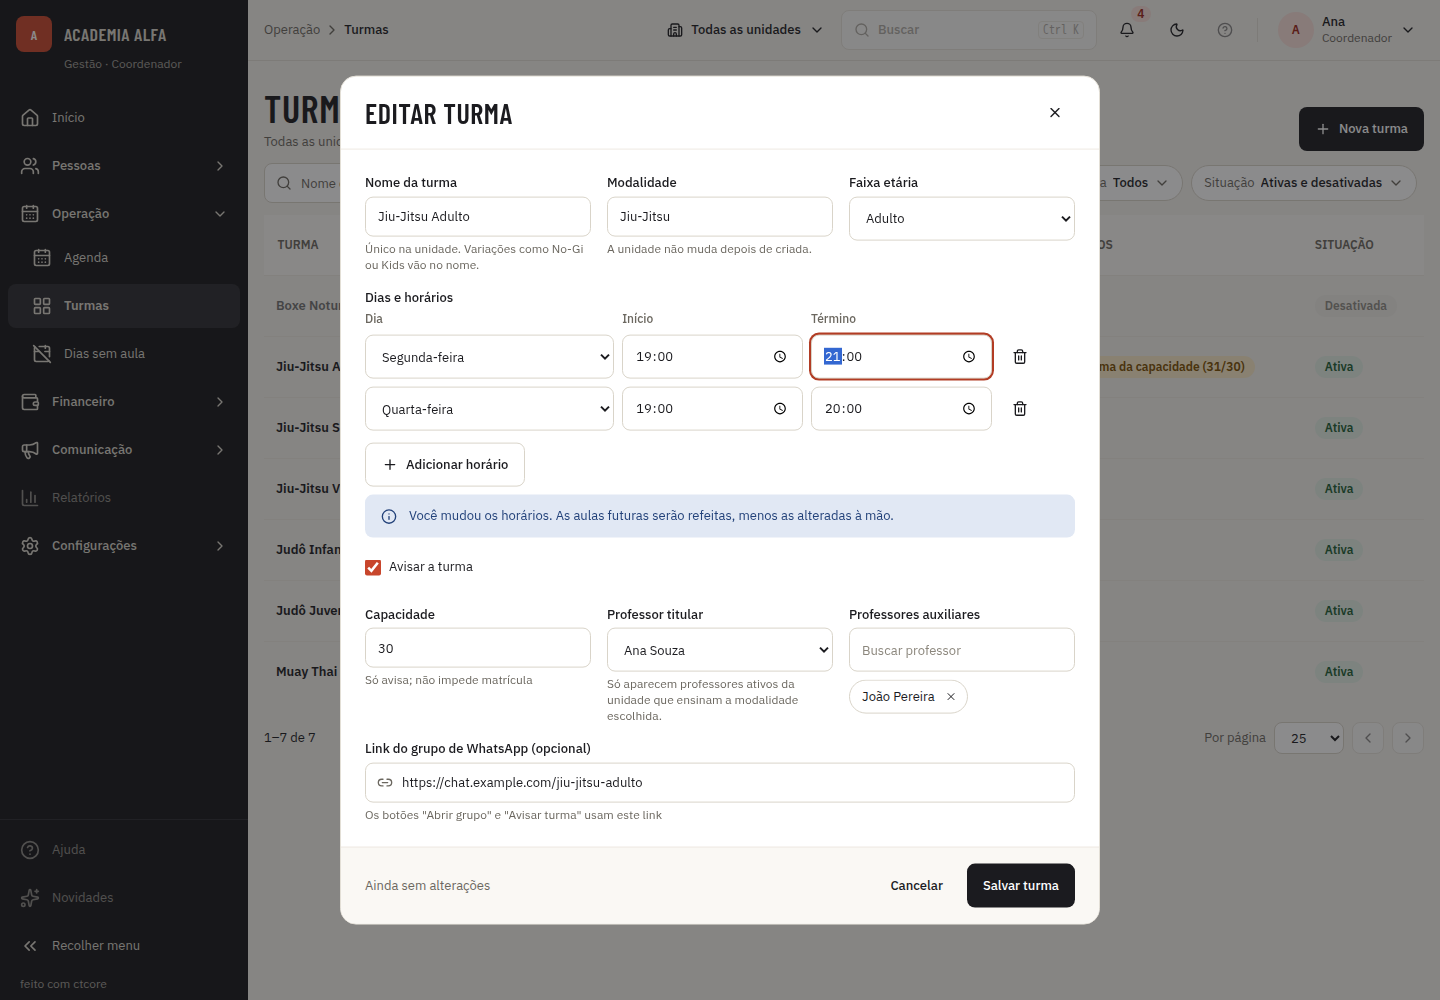
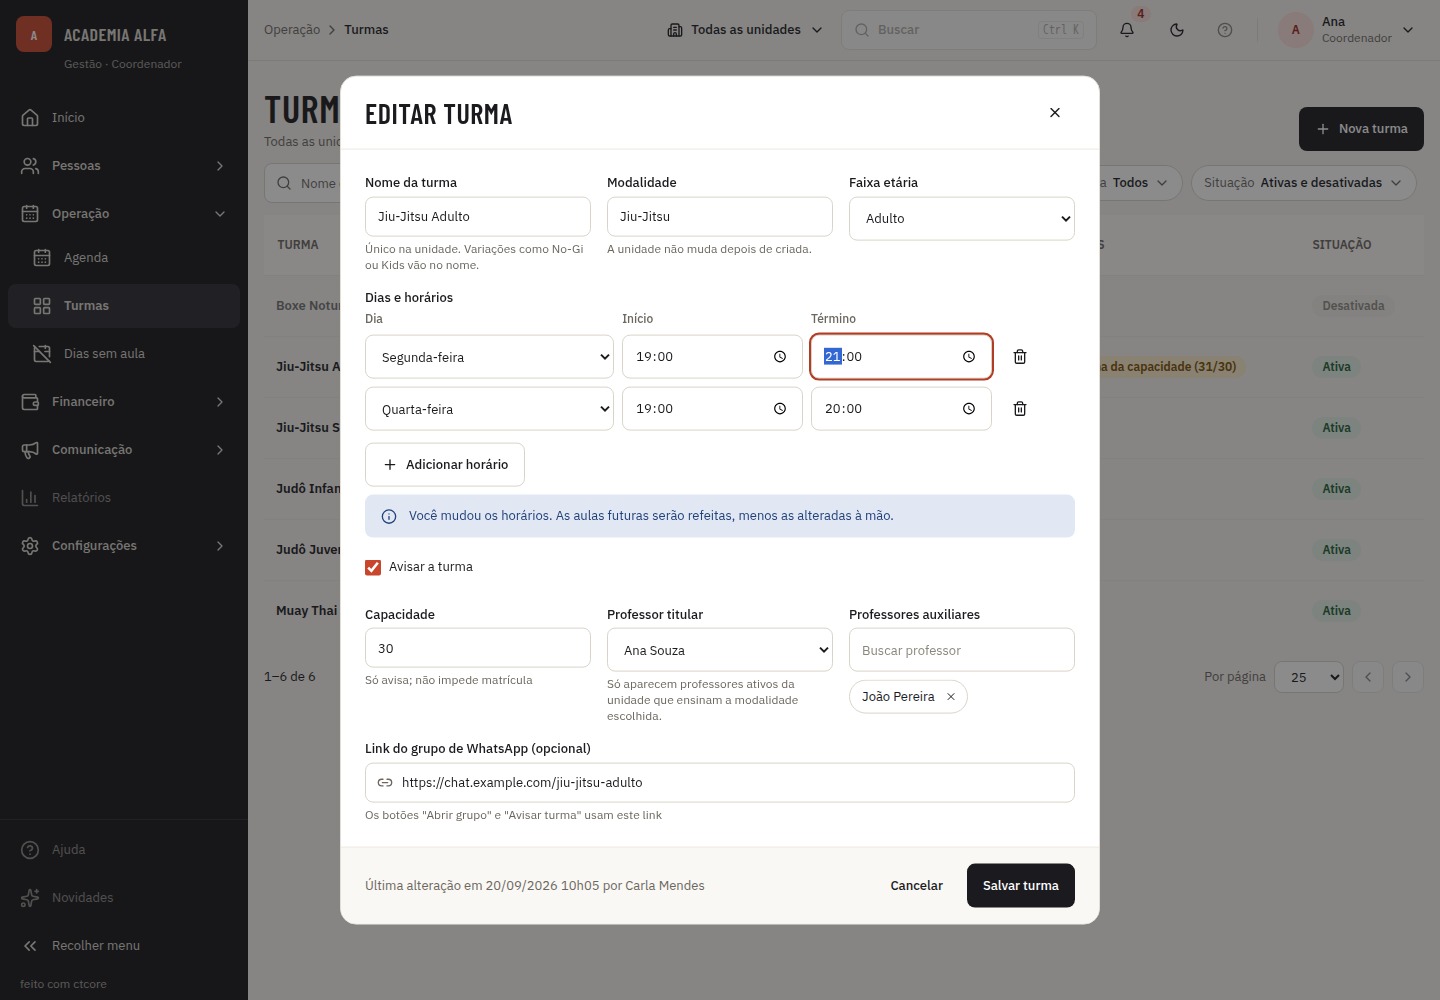
#475: Turmas: rodapé de turma-editar com a última alteração do canvas; divergências do painel e do DataTable viram #566 e #567

diff --git a/frontend/src/mocks/handlers.ts b/frontend/src/mocks/handlers.ts
@@ -570,7 +570,7 @@ const TEACHER_MARCOS = "00000000-0000-0000-0000-000000000503";
 export type MockClass = { scenario?: { activeStudents: number; roster: { id: string; name: string; primary: boolean }[] }; id: string; name: string; unitId: string; modalityId: string; ageRange: string | null; schedule: [number, string, string][]; head: string; assistants: string[]; capacity: number | null; status: string; groupLink?: string; blocking?: number; blockers?: { id: string; name: string; modality: string }[]; lastChange?: MockLastChange };
 // groupLink só no detalhe; `blocking` (alunos com a turma como principal) é só do simulado: o servidor só o traz com a matrícula (Sprint 07).
 const initialClasses = (): MockClass[] => [
-  { id: "00000000-0000-0000-0000-000000000601", name: "Jiu-Jitsu Adulto", unitId: ADMIN_UNIT, modalityId: modalityCatalog[3].id, ageRange: "Adulto", schedule: [[1, "19:00", "20:00"], [3, "19:00", "20:00"]], head: TEACHER_ANA, assistants: [TEACHER_JOAO], capacity: 30, status: "ACTIVE", groupLink: "https://chat.example.com/jiu-jitsu-adulto" },
+  { id: "00000000-0000-0000-0000-000000000601", name: "Jiu-Jitsu Adulto", unitId: ADMIN_UNIT, modalityId: modalityCatalog[3].id, ageRange: "Adulto", schedule: [[1, "19:00", "20:00"], [3, "19:00", "20:00"]], head: TEACHER_ANA, assistants: [TEACHER_JOAO], capacity: 30, status: "ACTIVE", groupLink: "https://chat.example.com/jiu-jitsu-adulto", lastChange: { at: "2026-09-20T13:05:00Z", by: "Carla Mendes" } },
   { id: "00000000-0000-0000-0000-000000000602", name: "Judô Infantil", unitId: ADMIN_UNIT, modalityId: modalityCatalog[4].id, ageRange: "Infantil", schedule: [[2, "18:00", "19:00"], [4, "18:00", "19:00"]], head: TEACHER_JOAO, assistants: [], capacity: 20, status: "ACTIVE", blocking: 22, blockers: [{ id: "00000000-0000-0000-0000-0000000008a1", name: "Davi Nogueira", modality: "Judô" }, { id: "00000000-0000-0000-0000-0000000008a2", name: "Nicolas Pereira", modality: "Judô" }] },
   { id: "00000000-0000-0000-0000-000000000603", name: "Boxe Noturno", unitId: UNIT_NORTE, modalityId: modalityCatalog[0].id, ageRange: null, schedule: [[5, "20:00", "21:30"]], head: TEACHER_MARCOS, assistants: [], capacity: null, status: "INACTIVE" },
 ];

diff --git a/frontend/src/mocks/classes.msw.test.ts b/frontend/src/mocks/classes.msw.test.ts
@@ -81,7 +81,7 @@ describe("painel da turma x OpenAPI (RF-TUR-02, CA10)", () => {
     const schema = openapi.components.schemas.ClassDetail;
     const required = [...openapi.components.schemas.ClassRow.required, ...schema.allOf[1].required].sort();
     expect(Object.keys(data).sort()).toEqual(required);
-    expect(data).toMatchObject({ name: "Jiu-Jitsu Adulto", groupLink: "https://chat.example.com/jiu-jitsu-adulto", nextClass: expect.objectContaining({ teacher: expect.objectContaining({ name: expect.any(String) }) }), students: [], lastChange: null });
+    expect(data).toMatchObject({ name: "Jiu-Jitsu Adulto", groupLink: "https://chat.example.com/jiu-jitsu-adulto", nextClass: expect.objectContaining({ teacher: expect.objectContaining({ name: expect.any(String) }) }), students: [], lastChange: { at: "2026-09-20T13:05:00Z", by: "Carla Mendes" } });
     expect(data.deactivation).toEqual({ allowed: true, blockingStudents: 0, blockingList: [] });
     expect((await (await detail(JUDO)).json()).groupLink).toBeNull();
     expect((await detail("00000000-0000-0000-0000-0000000009ff")).status).toBe(404);

diff --git a/specs/itens/475-turmas-canvas.md b/specs/itens/475-turmas-canvas.md
@@ -154,10 +154,10 @@ Achados:
 
 **Divergências para o PR.**
 - D10 (barra de unidade e itens de menu M1) fica com outras issues da 10.5.
-- Cabeçalho da lista: o canvas usa cartão com borda e cabeçalho em caixa normal; o `DataTable` compartilhado mostra caixa alta sem cartão (igual a Professores). Tratar no componente base, não nesta tela.
-- Painel: o canvas põe Próxima aula, Professores, Capacidade e Grupo em duas colunas e o sistema em uma; ícones em Editar, Avisar turma e Abrir grupo ausentes; selos acima do nome no canvas e ao lado no sistema; link do grupo sem sublinhado e vermelho do canvas.
-- Caso `turma-editar`: o rodapé mostra "Ainda sem alterações" porque o dado do caso não traz `lastChange`. Sugestão da verificação ainda não aplicada no caso visual.
+- Cabeçalho da lista: o canvas usa cartão com borda e cabeçalho em caixa normal; o `DataTable` compartilhado mostra caixa alta sem cartão (igual a Professores). Fica com a #567 (componente base Tabela); a tela passa no limite padrão, sem `limiteCanvas`.
+- Painel: o canvas põe Próxima aula, Professores, Capacidade e Grupo em duas colunas e o sistema em uma; faltam ícones nos botões; selos acima do nome no canvas e ao lado no sistema; link do grupo sem o estilo do canvas. Fica com a #566; o caso passa no limite padrão, sem `limiteCanvas`.
+- Caso `turma-editar`: o rodapé mostrava "Ainda sem alterações" por falta de `lastChange` no mock. Resolvido neste PR: a turma Jiu-Jitsu Adulto do mock traz "20/09/2026 10h05 por Carla Mendes", como o canvas; referências `turma-editar-*` regeradas.
 
 **Decisões.** Sem `limiteCanvas` nas telas de turma. Dados do canvas (próxima aula, 31/30, titular inativo) entram no MSW, com override só no caso `turma-titular-inativo`.
 
-**Limitações.** As divergências do painel e do cabeçalho acima seguem abertas nesta entrega, listadas no PR.
+**Limitações.** As divergências do painel e do cabeçalho seguem abertas nesta entrega e têm issue própria na Sprint 10.5: #566 (painel) e #567 (cabeçalho do `DataTable`), cada uma com a correção no "Pronto quando".
